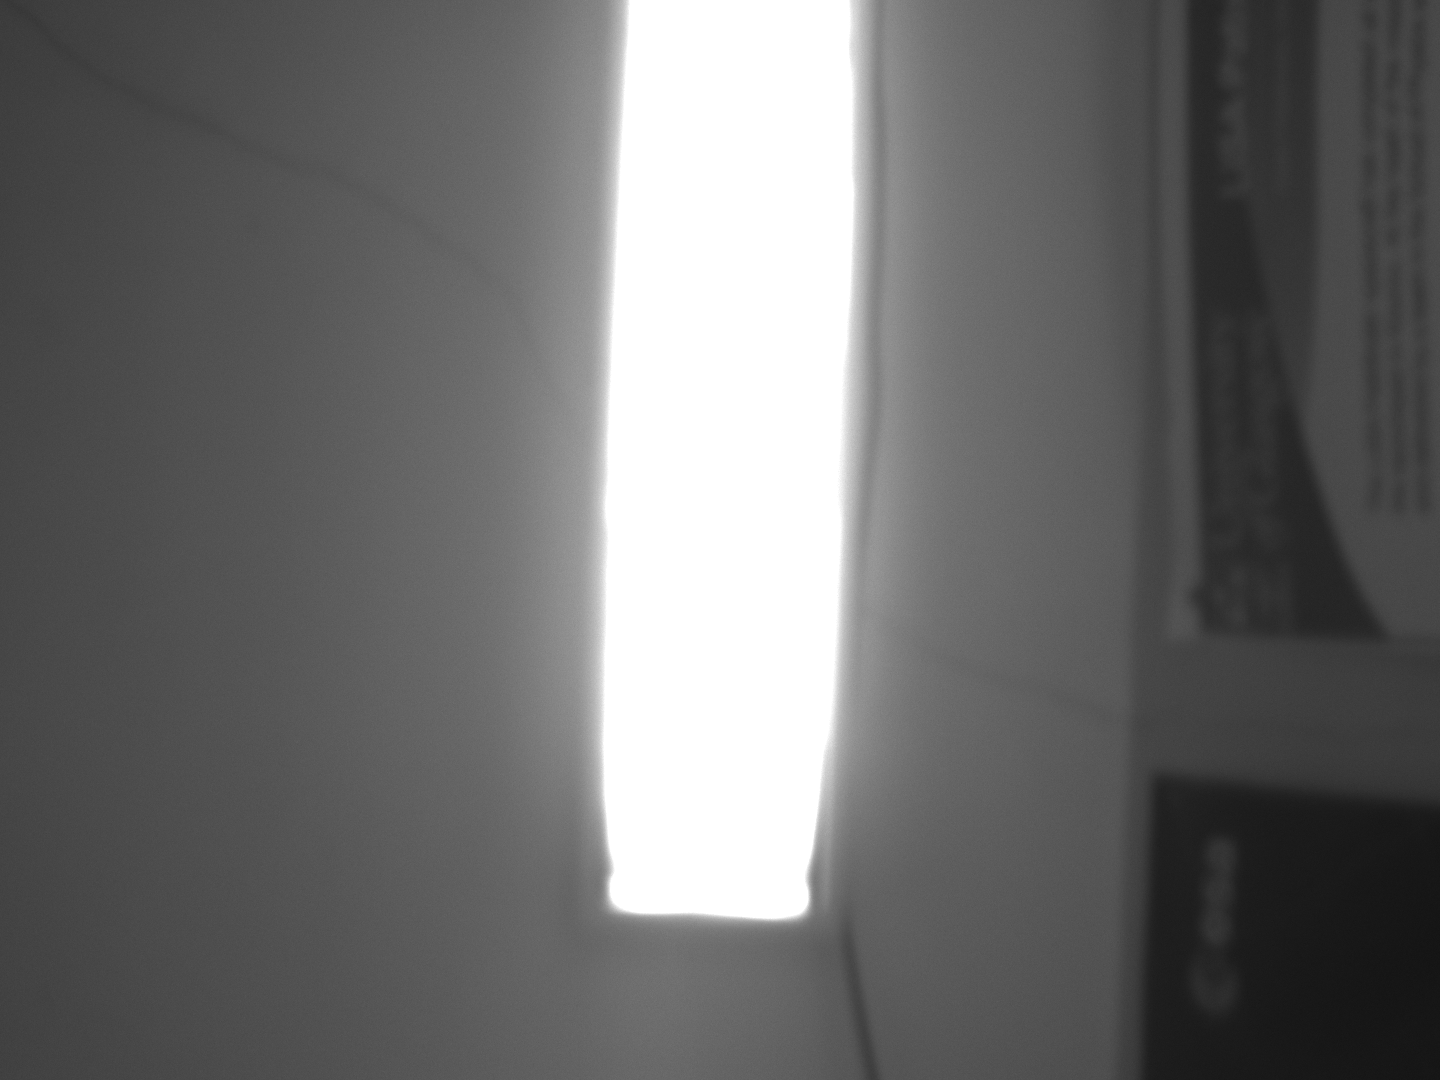
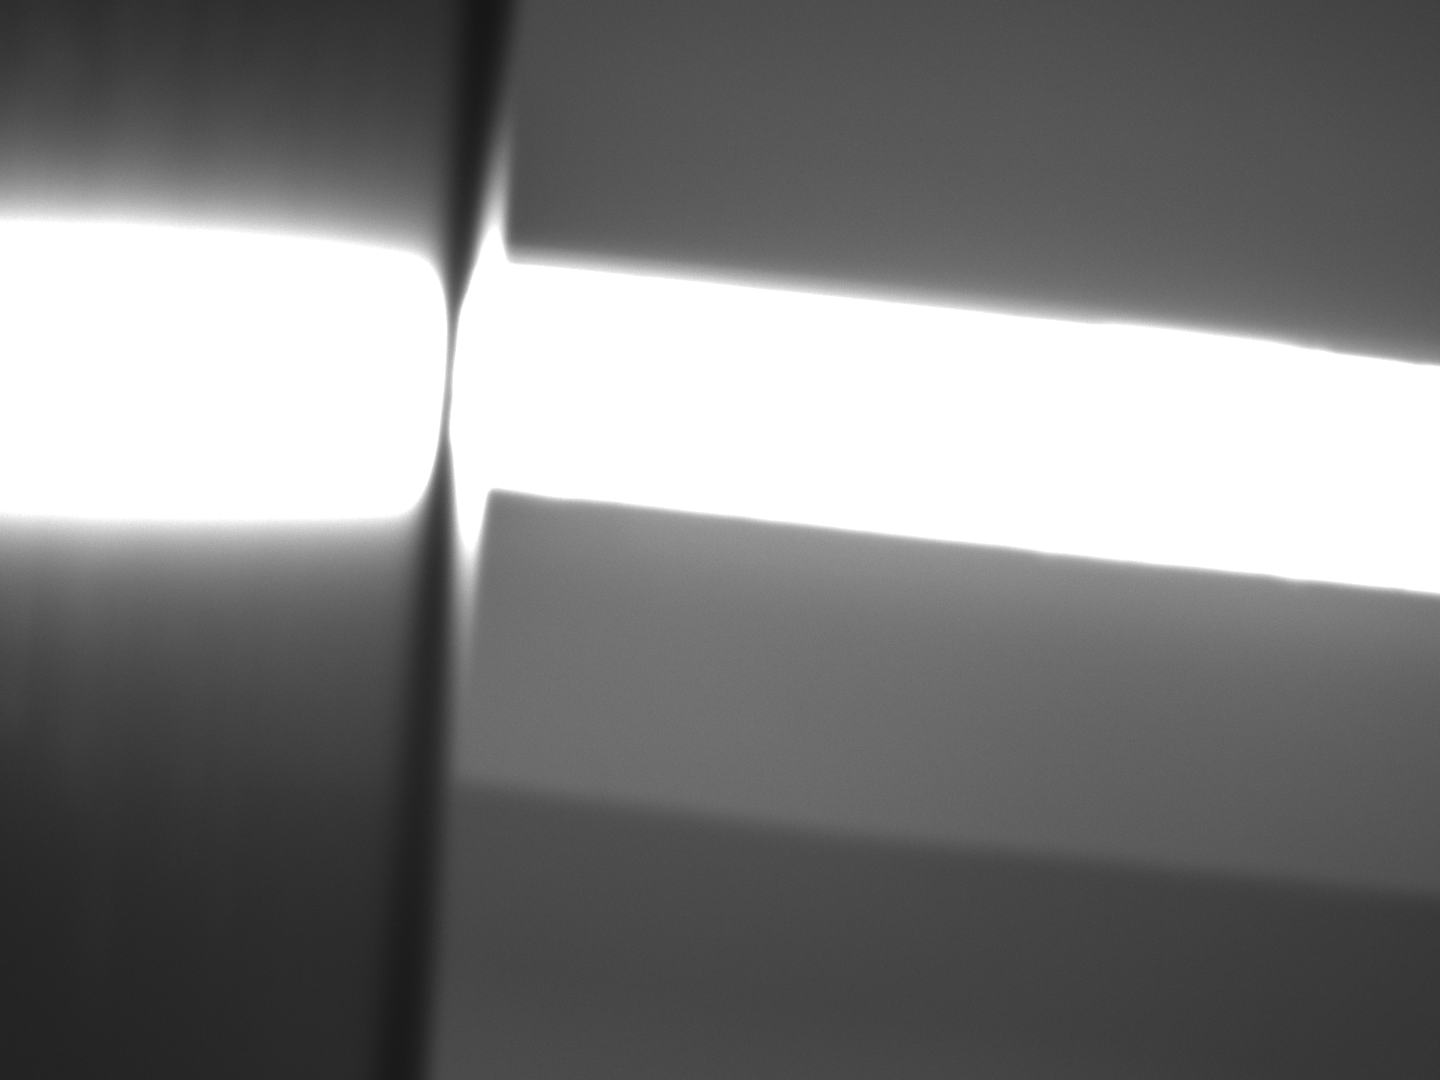
Added README and installation information

diff --git a/pylablib_camera.py b/pylablib_camera.py
@@ -2,6 +2,7 @@ import pylablib as pll
 from pylablib.devices import Thorlabs as tl
 import cv2
 import time
+import matplotlib.pyplot as plt
 
 
 cam = tl.ThorlabsTLCamera("18009")
@@ -14,12 +15,19 @@ print(serials)
 #time.sleep(15)
 #print("slept")
 
-cam.set_exposure(10E-3)
+cam.set_exposure(1)
 
 image = cam.snap(timeout=15)
 cam.close()
 
+
+
 cv2.imwrite("pic.png", image)
+print("Image taken")
+#plt.imshow(image)
+plt.plot(image.flatten())
+#plt.colorbar()
+plt.show()
 
 #for i in range(10):
 #    plt.imshow(images[i])

diff --git a/README.md b/README.md
@@ -1,0 +1,14 @@
+This repository contains code for the automated characterisation of a laser beam. It involves code for controlling 2 Thorlabs components, a stage and a camera.
+
+To use this code type in a terminal: git clone LINK
+where LINK is the HTTPS URL you get when you press the green code button.
+
+You will also need to download some Thorlabs software:
+- Kinesis software found at: https://www.thorlabs.com/software-pages/motion_control/?tabName=Kinesis%20Software
+
+- ThorCam software https://www.thorlabs.com/software-pages/thorcam/?tabName=ThorCam%20Software (not ThorImageCam)
+
+Unzip the C:\Program Files\Thorlabs\Scientific Imaging\Scientific Camera Support\Scientific_Camera_Interfaces.zip folder to C:\Program Files\Thorlabs\Scientific Imaging.
+
+Then in a terminal write:
+python -m pip install "C:\Program Files\Thorlabs\Scientific Imaging\Scientific Camera Interfaces\SDK\Python Toolkit\thorlabs_tsi_camera_python_sdk_package.zip"
